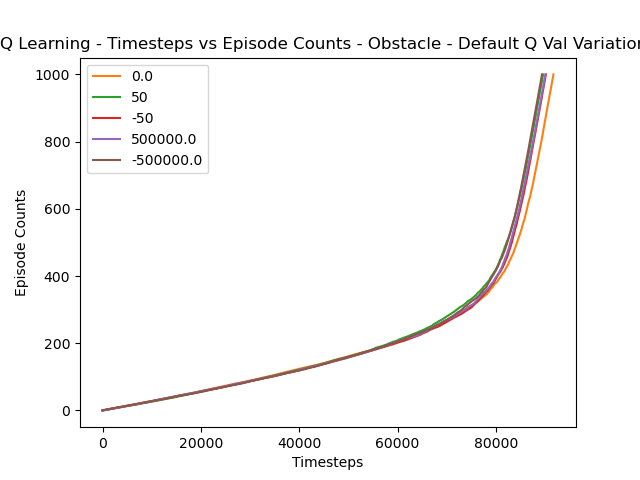
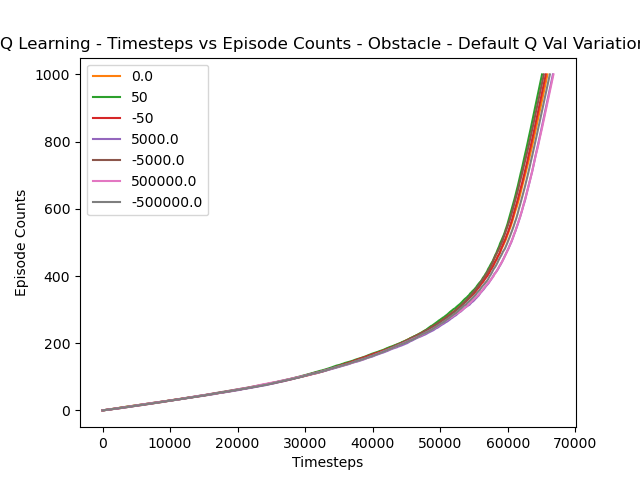
fix: Updated Q-Learning initial Q val experiments

diff --git a/q-learning.py b/q-learning.py
@@ -178,7 +178,7 @@ def run_trial(qLearner, descriptor="", maxEpisodeCount=500, maxEpisodeLength=500
 
 # # ## Basic Obstacle Experiment - for Default Q_Value ##
 # MAX_EPISODES_COUNTS = 1000
-# default_q_vals_candidates = [0.0, 50, -50, 5e5, -5e5]
+# default_q_vals_candidates = [0.0, 50, -50, 5e3, -5e3, 5e5, -5e5]
 # MAX_TRIALS = len(default_q_vals_candidates)
 # MAX_SAMPLES = 10
 # cumulative_episode_lengths_by_q_vals = []
@@ -186,8 +186,7 @@ def run_trial(qLearner, descriptor="", maxEpisodeCount=500, maxEpisodeLength=500
 #     cumulative_episode_lengths_by_sample = []
 #     for sample_idx in range(0, MAX_SAMPLES):
 #         print(f'[Sample {sample_idx}]')
-#         qLearner = QLearning(obstacles={'o1': (1, 1)})
-#         qLearner.default_q_value = default_q_vals_candidates[trial_idx]
+#         qLearner = QLearning(obstacles={'o1': (1, 1)}, default_q_value=default_q_vals_candidates[trial_idx])
 #         cumulative_episode_lengths, deviation_over_episodes = run_trial(qLearner, "basic - obstacle", maxEpisodeCount=MAX_EPISODES_COUNTS)
 #         cumulative_episode_lengths_by_sample.append(cumulative_episode_lengths)
 #     mean_cumulative_episode_lengths = []
